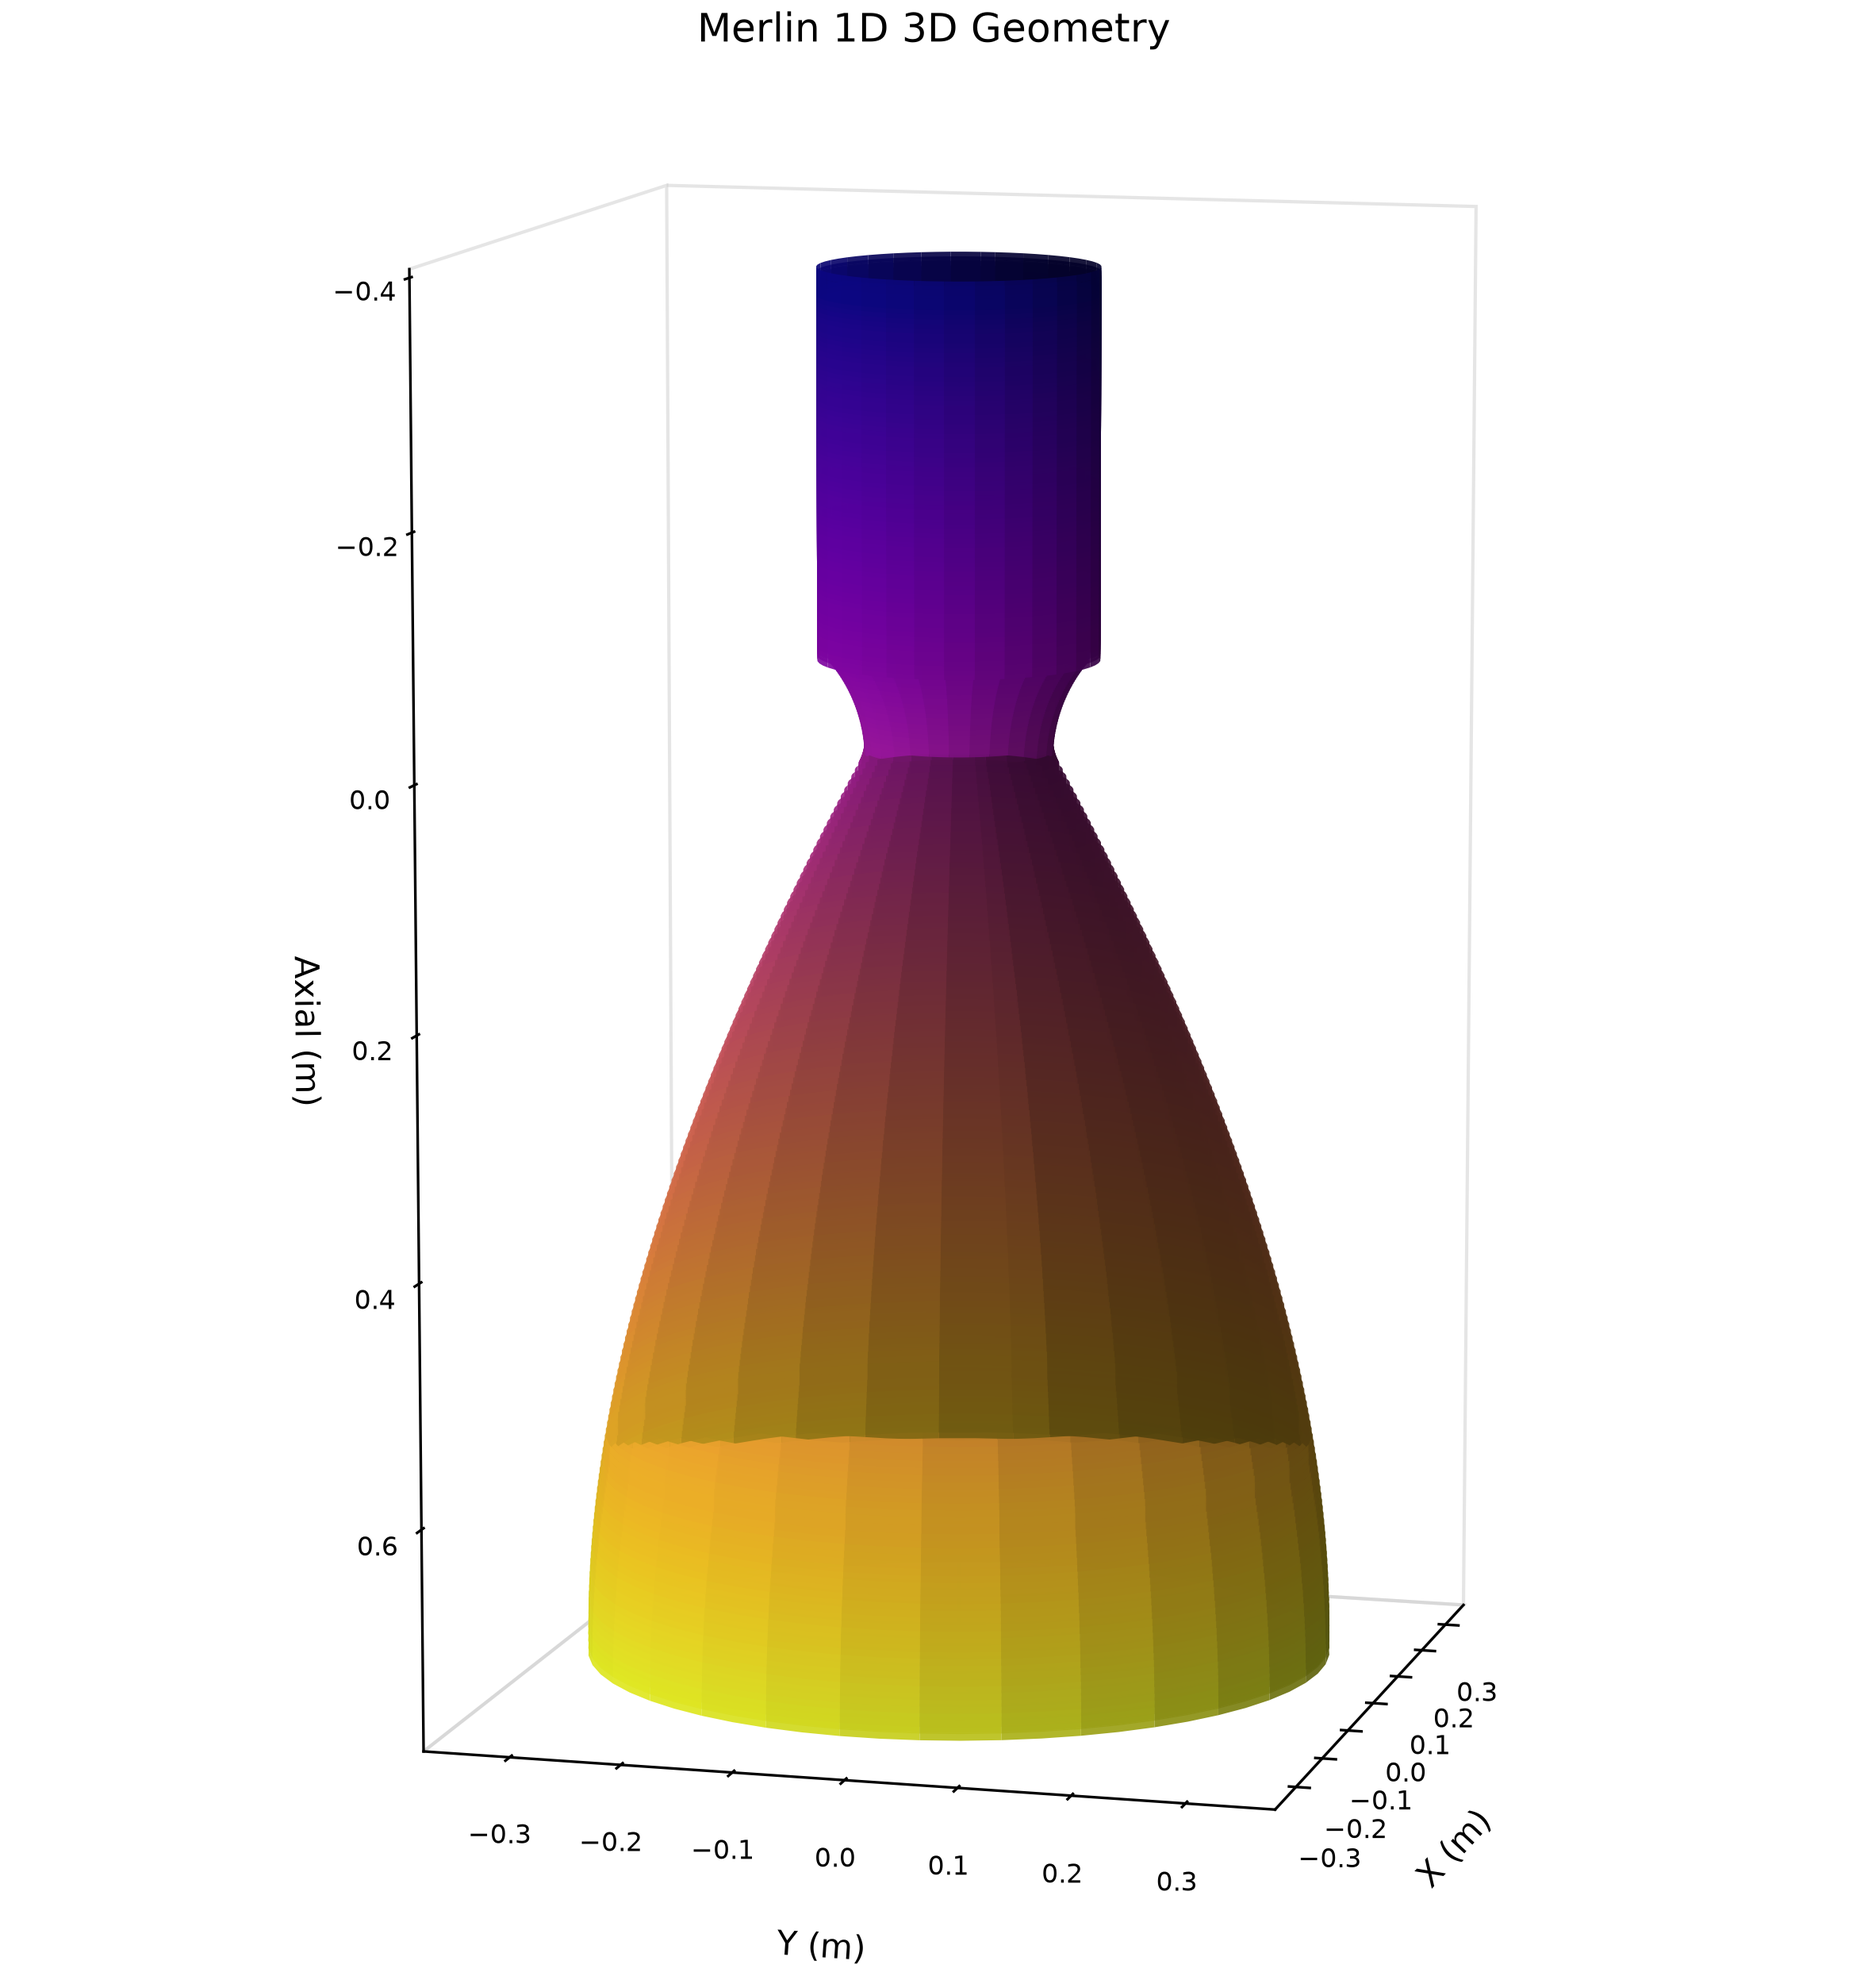
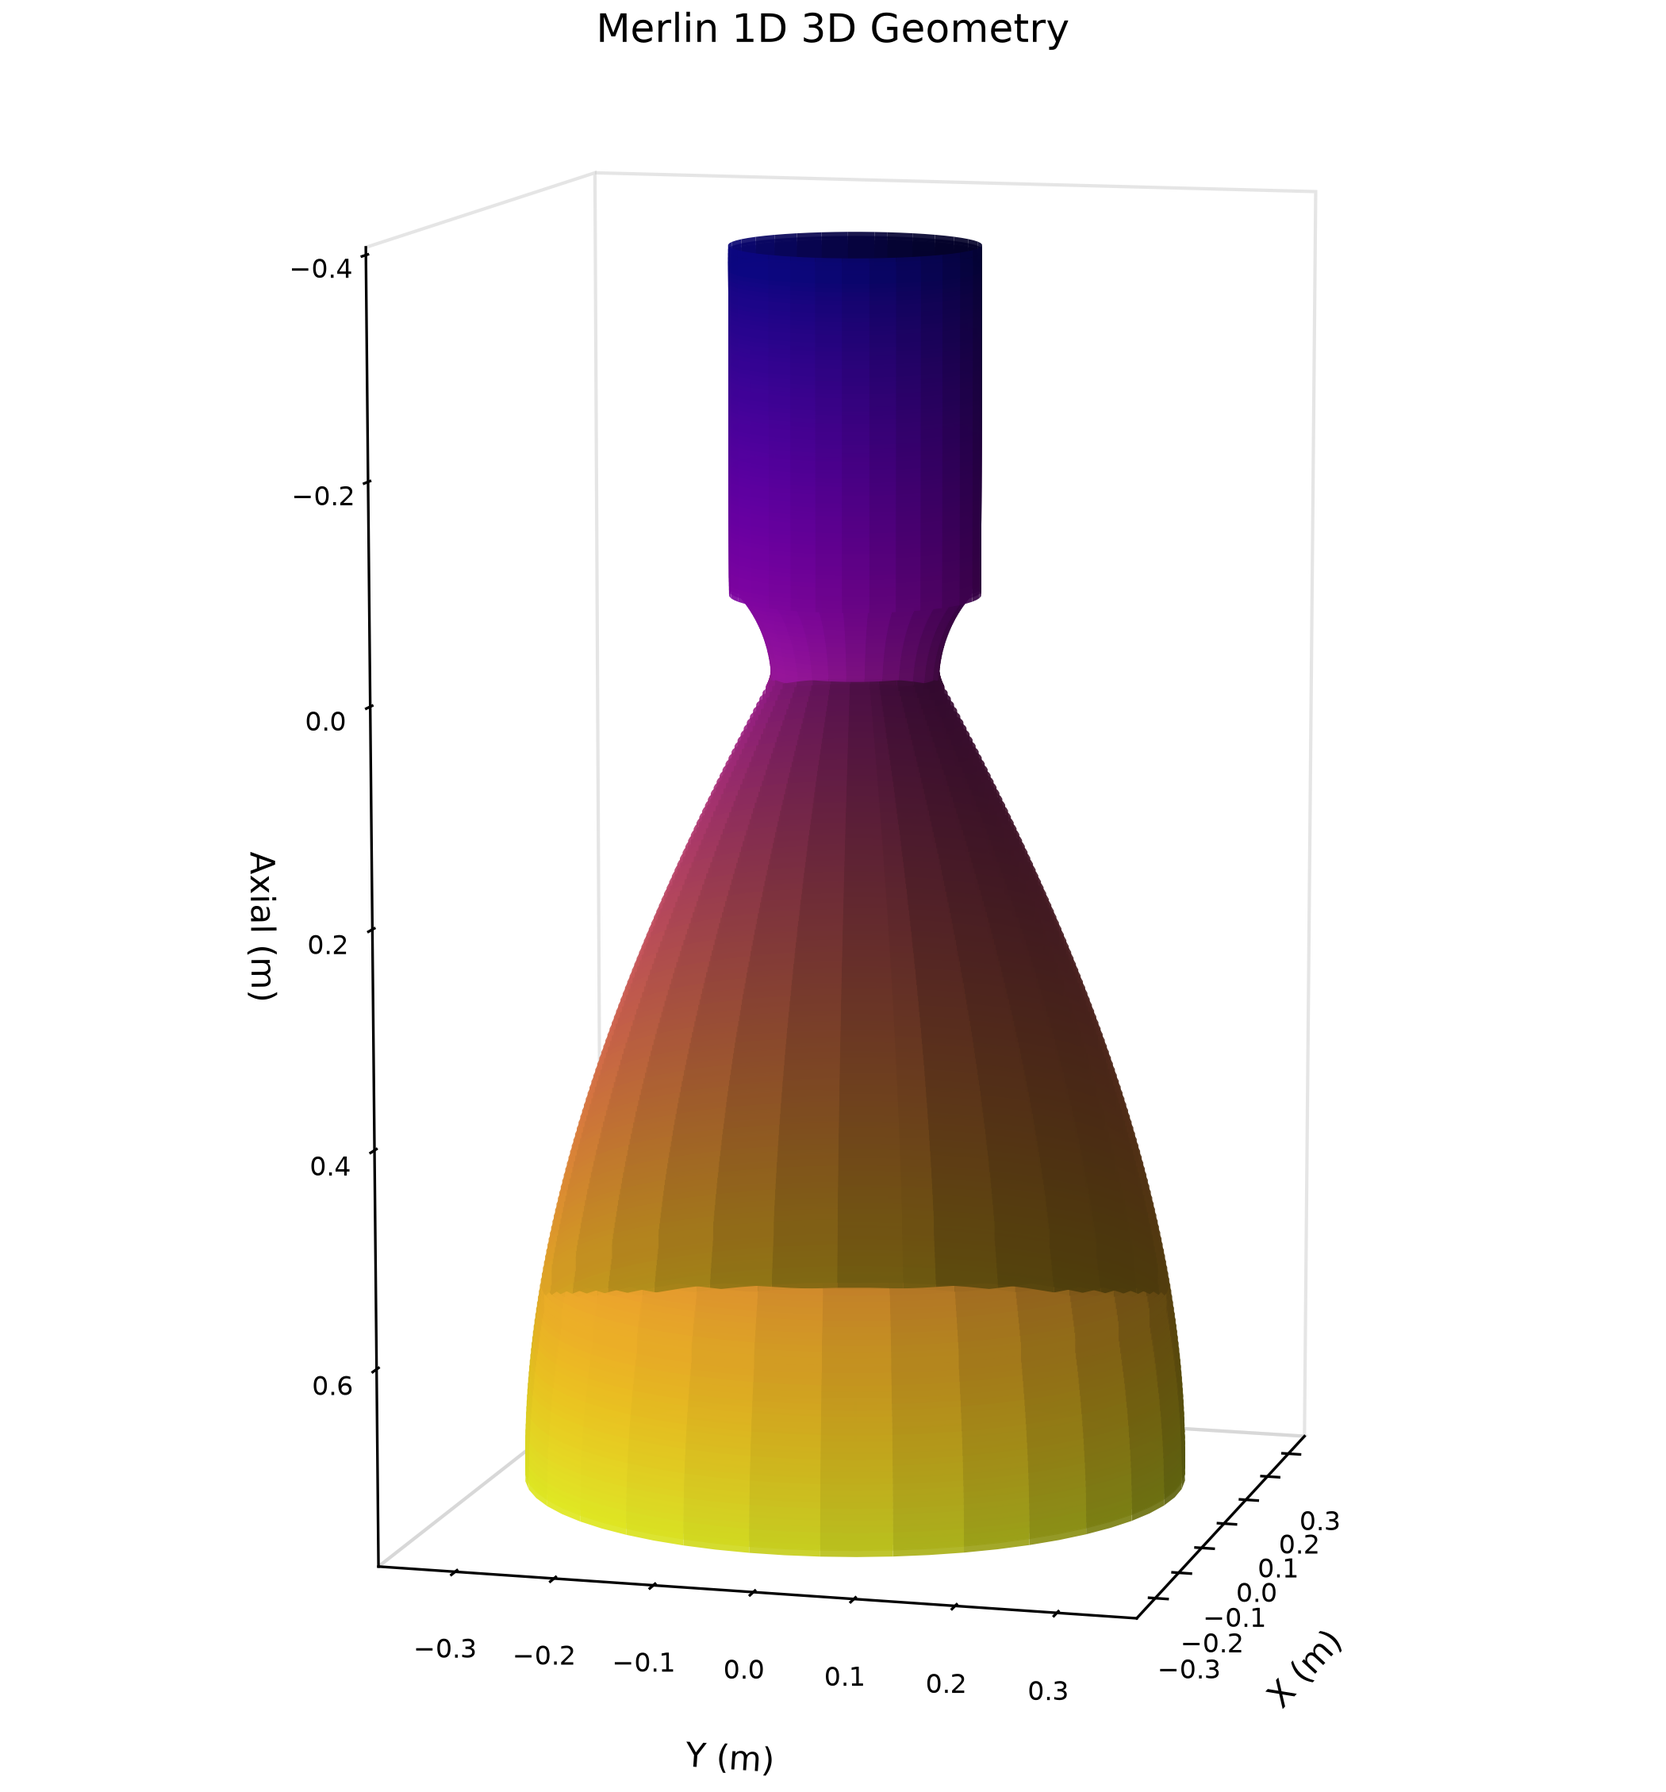
style(viz): reduce top margin to 0.80 in 3D geometry plots

diff --git a/src/viz/nozzle_3d.py b/src/viz/nozzle_3d.py
@@ -122,7 +122,7 @@ def plot_nozzle_3d(
     )
 
     # Reduce top margin
-    plt.subplots_adjust(top=0.92)
+    plt.subplots_adjust(top=0.80)
 
     # 10. Save
     output_path.parent.mkdir(parents=True, exist_ok=True)
